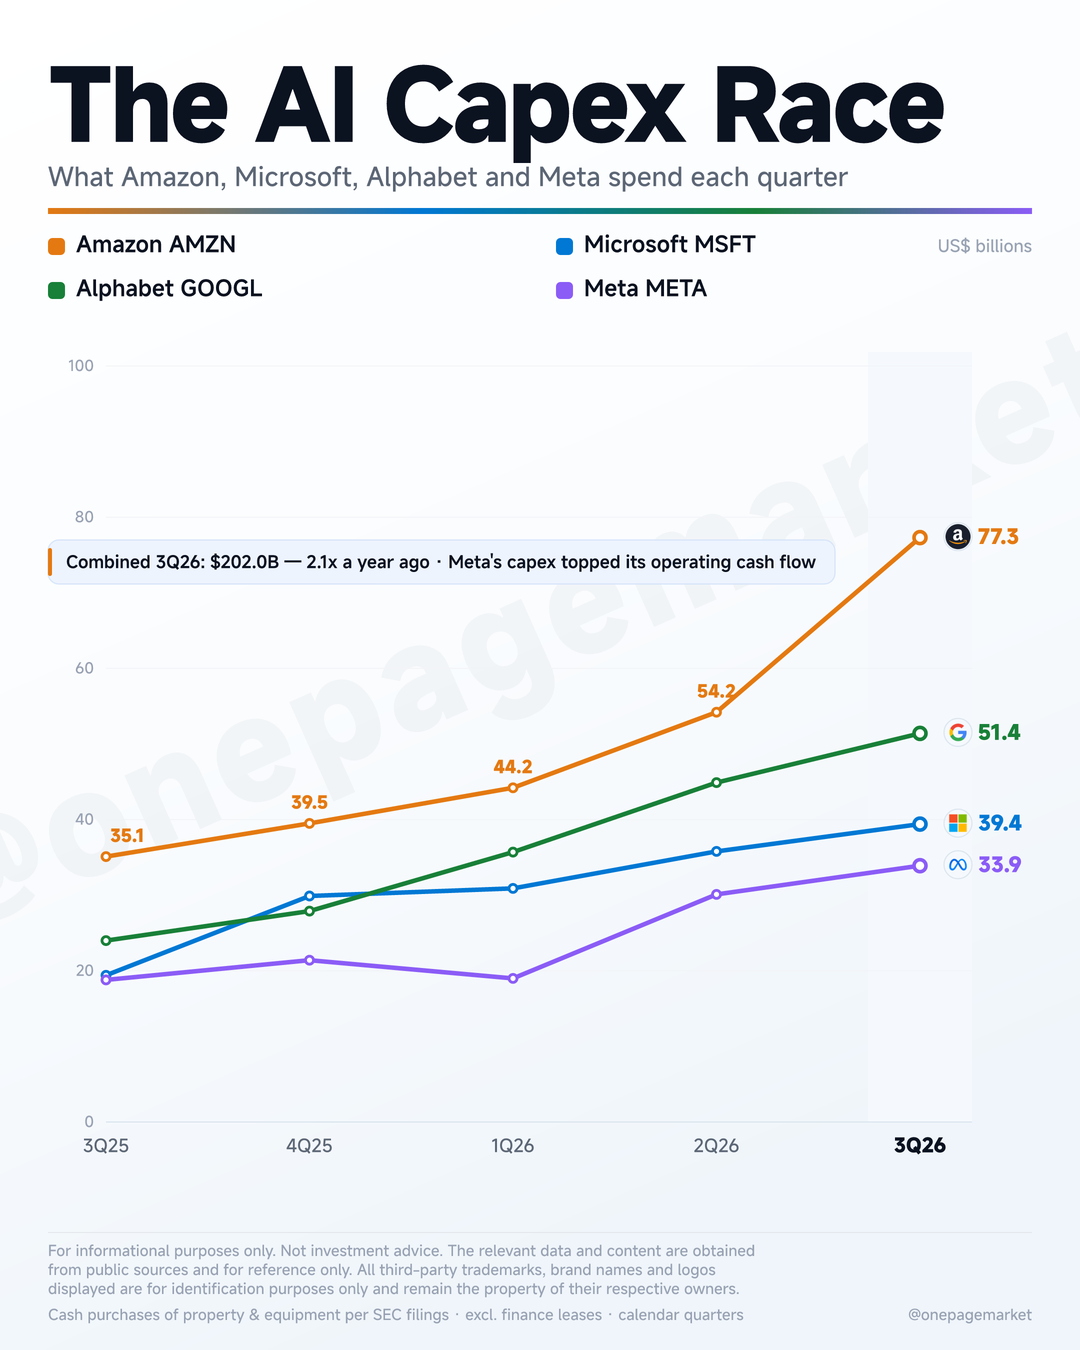
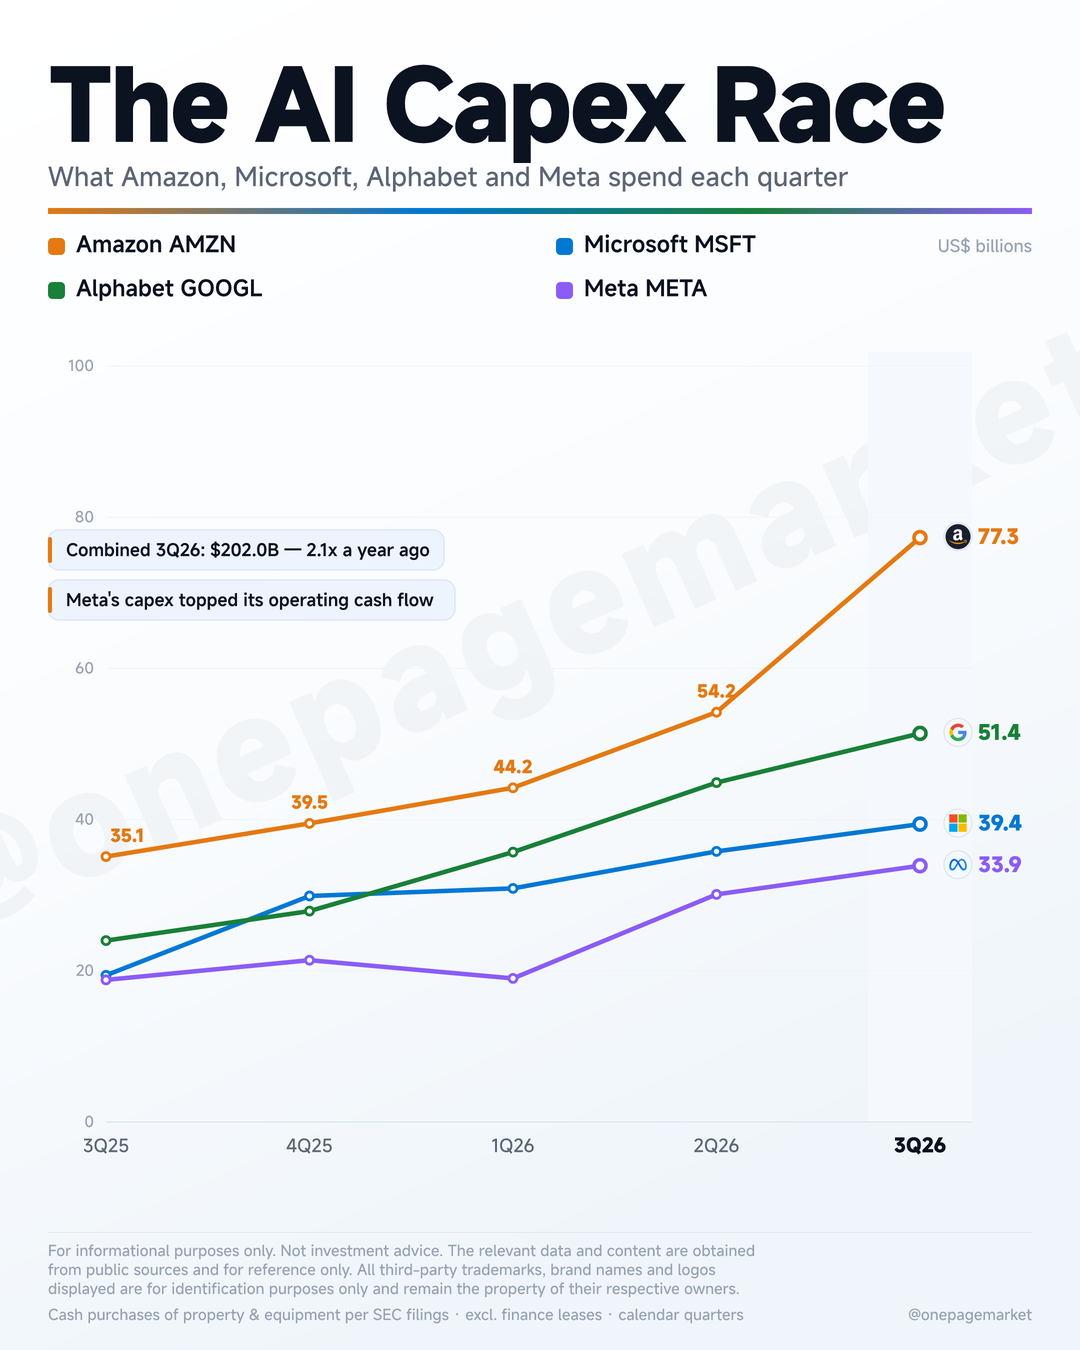
capex: split insight strip into two lines

Changed region(s): [[0.0611, 0.4044, 0.7639, 0.4667]]

diff --git a/scripts/build_capex_bigfour.js b/scripts/build_capex_bigfour.js
@@ -146,14 +146,17 @@ D.series.forEach((s) => {
   });
 }
 
-/* ---------------- 洞察條（頁面中間偏左，浮在圖表空曠區） ---------------- */
+/* ---------------- 洞察條（頁面中間偏左，兩行各一條 pill） ---------------- */
 {
-  const ss = 17;
-  const w = Math.min(CW, Math.round(tw(D.strip, ss, 500)) + 36);
-  const SY = 540, SH = 44;
-  svg.push(rrect(M, SY, w, SH, 11, '#EEF4FE', 'stroke="#D7E5FA" stroke-width="1.2"'));
-  svg.push(`<rect x="${M}" y="${SY + 8}" width="4" height="${SH - 16}" rx="2" fill="#E47911"/>`);
-  svg.push(t(M + 18, SY + 28, D.strip, { size: ss, weight: 500, fill: '#0B1220' }));
+  const ss = 17, SH = 40, GAP = 10;
+  const lines = Array.isArray(D.strip) ? D.strip : [D.strip];
+  lines.forEach((line, i) => {
+    const w = Math.min(CW, Math.round(tw(line, ss, 500)) + 36);
+    const SY = 530 + i * (SH + GAP);
+    svg.push(rrect(M, SY, w, SH, 11, '#EEF4FE', 'stroke="#D7E5FA" stroke-width="1.2"'));
+    svg.push(`<rect x="${M}" y="${SY + 7}" width="4" height="${SH - 14}" rx="2" fill="#E47911"/>`);
+    svg.push(t(M + 18, SY + 26, line, { size: ss, weight: 500, fill: '#0B1220' }));
+  });
 }
 
 /* ---------------- 頁腳 ---------------- */
